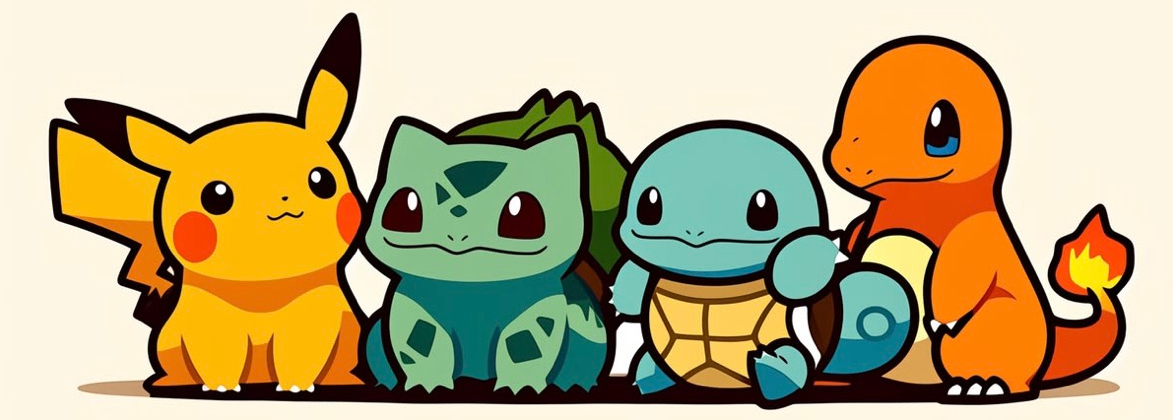
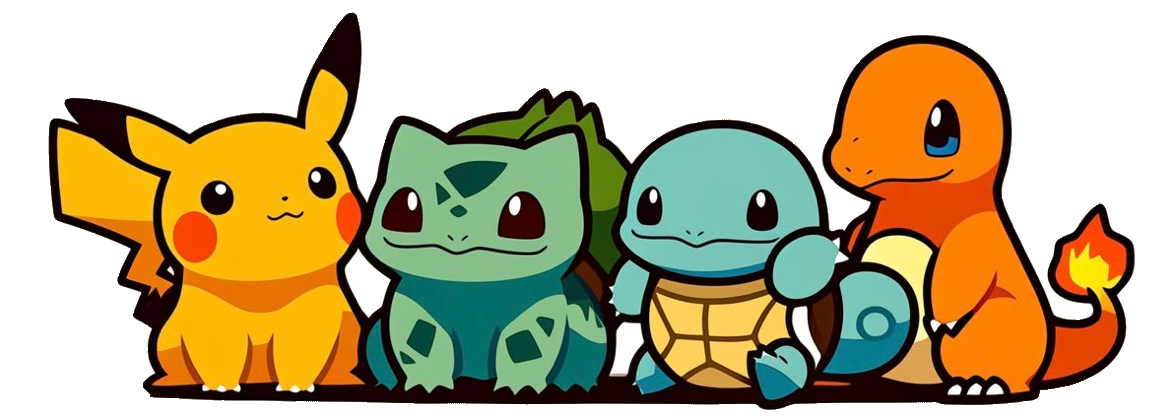
The envelope says one thing: who it is for
A chat app already prints the title and the date as text under the picture,
so the card repeating them said everything twice. All three variants now
carry the addressee and nothing else, which lets the name be far bigger and
survive being shown small in a busy thread.

The artwork is cut out of its paper background as well, so the characters
stand on the envelope rather than in a pale box. That let the opening
variant lose the panel it needed around them, and the drawing now rides out
on the card instead, which reads as the invitation rather than a sticker.

Claude-Session: https://claude.ai/code/session_01W5yJ9gMREcHtsepW6vWNrt

diff --git a/components/share/envelope-card.tsx b/components/share/envelope-card.tsx
@@ -18,8 +18,8 @@ export type CardInput = {
   palette: Palette;
   /** Who the invite is for. Absent on the group link, which is addressed to nobody in particular. */
   addressee?: string | null;
+  /** Shown only when there is no addressee, on the group link. */
   title: string;
-  when: string;
   /** Absolute URL. Satori fetches it, so a relative path will not do. */
   artwork?: string | null;
   /** Two digits at most, for the stamp. */
@@ -65,8 +65,9 @@ function stamp(p: Palette, age: string | null | undefined, x: number, y: number)
 }
 
 // A. Posted. A cream envelope, hand addressed, stamped and postmarked, with the host's artwork
-// sitting in the bottom corner. Cream on cream, so the drawing needs no box around it.
-function posted({ palette: p, addressee, title, when, artwork, age }: CardInput) {
+// standing in the bottom corner. The name is the only thing written on it: a chat app already
+// prints the title and the date as text under the picture, so repeating them here says it twice.
+function posted({ palette: p, addressee, title, artwork, age }: CardInput) {
   const EW = 920, EH = 505;
   return ground(p,
     <div style={{ position: "relative", width: EW, height: EH, display: "flex", transform: "rotate(-1.2deg)" }}>
@@ -79,16 +80,14 @@ function posted({ palette: p, addressee, title, when, artwork, age }: CardInput)
         </g>
       </svg>
       {stamp(p, age, EW - 150, 34)}
-      <div style={{ position: "absolute", left: 76, top: 128, display: "flex", flexDirection: "column", width: 540 }}>
-        <div style={{ display: "flex", fontFamily: HAND, fontSize: 30, letterSpacing: 6, color: p.red }}>{addressee ? "TO" : "YOU'RE INVITED"}</div>
-        <div style={{ display: "flex", fontFamily: HAND, fontSize: 86, color: p.navy, lineHeight: 1.02, marginTop: 2 }}>{addressee ?? title}</div>
-        {addressee ? <div style={{ display: "flex", fontFamily: DISPLAY, fontSize: 40, color: p.navy, marginTop: 24 }}>{title}</div> : null}
-        <div style={{ display: "flex", fontSize: 25, fontWeight: 700, color: p.navy, opacity: 0.72, marginTop: 10 }}>{when}</div>
+      <div style={{ position: "absolute", left: 80, top: 176, display: "flex", flexDirection: "column", width: 580 }}>
+        <div style={{ display: "flex", fontFamily: HAND, fontSize: 36, letterSpacing: 8, color: p.red }}>{addressee ? "TO" : "YOU'RE INVITED"}</div>
+        <div style={{ display: "flex", fontFamily: HAND, fontSize: 118, color: p.navy, lineHeight: 1.02, marginTop: 4 }}>{addressee ?? title}</div>
       </div>
       {artwork ? (
-        <div style={{ position: "absolute", right: 30, bottom: 18, display: "flex" }}>
+        <div style={{ position: "absolute", right: 44, bottom: 26, display: "flex" }}>
           {/* eslint-disable-next-line @next/next/no-img-element */}
-          <img src={artwork} alt="" height={132} />
+          <img src={artwork} alt="" height={168} />
         </div>
       ) : null}
     </div>,
@@ -97,8 +96,8 @@ function posted({ palette: p, addressee, title, when, artwork, age }: CardInput)
 
 // B. Opening. The flap is up and the invitation is halfway out, which is the clearest possible
 // way of saying there is something in here to open.
-function opening({ palette: p, addressee, title, when, artwork, age }: CardInput) {
-  const CW = 640, CH = 232, EW = 800, EH = 292;
+function opening({ palette: p, addressee, title, artwork }: CardInput) {
+  const CW = 660, CH = 252, EW = 800, EH = 292;
   const ELEFT = (980 - EW) / 2, ETOP = 252, FLAP_TOP = 178;
   const liner = shade(p.sky, 0.58);
   return ground(p,
@@ -110,44 +109,38 @@ function opening({ palette: p, addressee, title, when, artwork, age }: CardInput
       {/* the invitation, halfway out */}
       <div
         style={{
-          position: "absolute", left: (980 - CW) / 2, top: 16, width: CW, height: CH,
+          position: "absolute", left: (980 - CW) / 2, top: 8, width: CW, height: CH,
           display: "flex", flexDirection: "column", alignItems: "center",
-          background: PAPER, border: `6px solid ${p.navy}`, borderRadius: 12, paddingTop: 22,
+          background: PAPER, border: `6px solid ${p.navy}`, borderRadius: 12, paddingTop: 18,
           transform: "rotate(-1.2deg)",
         }}
       >
-        <div style={{ display: "flex", fontFamily: HAND, fontSize: 23, letterSpacing: 7, color: p.red }}>{age ? "TRAINER WANTED" : "YOU'RE INVITED"}</div>
-        <div style={{ display: "flex", fontFamily: DISPLAY, fontSize: 54, color: p.navy, marginTop: 6, lineHeight: 1.04 }}>{title}</div>
-        <div style={{ display: "flex", fontSize: 22, fontWeight: 700, color: p.navy, opacity: 0.7, marginTop: 10 }}>{when}</div>
+        <div style={{ display: "flex", fontFamily: HAND, fontSize: 26, letterSpacing: 8, color: p.red }}>YOU&apos;RE INVITED</div>
+        {artwork ? (
+          <div style={{ display: "flex", marginTop: 8 }}>
+            {/* eslint-disable-next-line @next/next/no-img-element */}
+            <img src={artwork} alt="" height={168} />
+          </div>
+        ) : (
+          <div style={{ display: "flex", fontFamily: DISPLAY, fontSize: 62, color: p.navy, marginTop: 20, lineHeight: 1.04 }}>{title}</div>
+        )}
       </div>
       {/* the envelope front, over the card */}
       <svg width={EW} height={EH} viewBox={`0 0 ${EW} ${EH}`} style={{ position: "absolute", left: ELEFT, top: ETOP }}>
         <rect x="5" y="5" width={EW - 10} height={EH - 10} rx="14" fill={p.red} stroke={p.navy} strokeWidth="7" />
         <path d={`M8 8 L${EW / 2} 150 L${EW - 8} 8`} fill="none" stroke={shade(p.red, -0.22)} strokeWidth="6" strokeLinejoin="round" />
       </svg>
-      <div style={{ position: "absolute", left: ELEFT + 54, top: ETOP + 168, display: "flex", flexDirection: "column" }}>
-        <div style={{ display: "flex", fontFamily: HAND, fontSize: 21, letterSpacing: 6, color: p.cream }}>{addressee ? "TO" : ""}</div>
-        <div style={{ display: "flex", fontFamily: HAND, fontSize: 50, color: "#FFFFFF", lineHeight: 1 }}>{addressee ?? ""}</div>
+      <div style={{ position: "absolute", left: ELEFT + 56, top: ETOP + 148, width: EW - 112, display: "flex", flexDirection: "column" }}>
+        <div style={{ display: "flex", fontFamily: HAND, fontSize: 24, letterSpacing: 7, color: p.cream }}>{addressee ? "TO" : ""}</div>
+        <div style={{ display: "flex", fontFamily: HAND, fontSize: 72, color: "#FFFFFF", lineHeight: 1.02 }}>{addressee ?? ""}</div>
       </div>
-      {artwork ? (
-        <div
-          style={{
-            position: "absolute", right: 26, top: ETOP + 138, display: "flex",
-            background: PAPER, border: `5px solid ${p.navy}`, borderRadius: 10,
-            padding: "6px 8px", transform: "rotate(-2.5deg)",
-          }}
-        >
-          {/* eslint-disable-next-line @next/next/no-img-element */}
-          <img src={artwork} alt="" height={98} />
-        </div>
-      ) : null}
     </div>,
   );
 }
 
 // C. Sealed. No artwork at all, which is what every event gets before a host uploads anything,
 // and what a memorial or a quiet dinner should get regardless.
-function sealed({ palette: p, addressee, title, when }: CardInput) {
+function sealed({ palette: p, addressee, title }: CardInput) {
   const EW = 900, EH = 512, FLAP = 226;
   return ground(p,
     <div style={{ position: "relative", width: EW, height: EH, display: "flex", transform: "rotate(1deg)" }}>
@@ -157,11 +150,9 @@ function sealed({ palette: p, addressee, title, when }: CardInput) {
         <circle cx={EW / 2} cy={FLAP} r="36" fill={p.red} stroke={p.navy} strokeWidth="6" />
         <circle cx={EW / 2} cy={FLAP} r="23" fill="none" stroke={shade(p.red, 0.4)} strokeWidth="3" />
       </svg>
-      <div style={{ position: "absolute", left: 0, top: 288, width: EW, display: "flex", flexDirection: "column", alignItems: "center" }}>
-        {addressee ? <div style={{ display: "flex", fontFamily: HAND, fontSize: 26, letterSpacing: 7, color: p.red }}>TO</div> : null}
-        <div style={{ display: "flex", fontFamily: HAND, fontSize: addressee ? 68 : 52, color: p.navy, lineHeight: 1.02 }}>{addressee ?? title}</div>
-        {addressee ? <div style={{ display: "flex", fontFamily: DISPLAY, fontSize: 34, color: p.navy, marginTop: 10 }}>{title}</div> : null}
-        <div style={{ display: "flex", fontSize: 23, fontWeight: 700, color: p.navy, opacity: 0.7, marginTop: 6 }}>{when}</div>
+      <div style={{ position: "absolute", left: 0, top: 302, width: EW, display: "flex", flexDirection: "column", alignItems: "center" }}>
+        {addressee ? <div style={{ display: "flex", fontFamily: HAND, fontSize: 30, letterSpacing: 8, color: p.red }}>TO</div> : null}
+        <div style={{ display: "flex", fontFamily: HAND, fontSize: addressee ? 86 : 60, color: p.navy, lineHeight: 1.02, marginTop: 4 }}>{addressee ?? title}</div>
       </div>
     </div>,
   );

diff --git a/app/s/i/[token]/card.png/route.tsx b/app/s/i/[token]/card.png/route.tsx
@@ -3,7 +3,6 @@ import { getInviteCard } from "@/lib/guest/invite";
 import { paletteFor } from "@/components/art/palette";
 import { CARD_SIZE, envelopeCard, type CardVariant } from "@/components/share/envelope-card";
 import { cardFonts } from "@/lib/fonts";
-import { shortWhen } from "@/lib/format";
 import { getSiteUrl } from "@/lib/site-url";
 
 // The picture under a personal link: the same envelope, addressed to the guest it belongs to.
@@ -21,7 +20,6 @@ export async function GET(request: Request, { params }: { params: Promise<{ toke
       palette: paletteFor(card.palette, card.theme_id),
       addressee: card.addressee,
       title: card.share_title ?? card.title,
-      when: shortWhen(card.date, card.start_time),
       artwork: card.invite_image_path ? `${site}${card.invite_image_path}` : null,
       age: card.title.match(/turning (\d+)/i)?.[1] ?? null,
       variant,

diff --git a/app/s/[slug]/card.png/route.tsx b/app/s/[slug]/card.png/route.tsx
@@ -3,7 +3,6 @@ import { getEventBySlug } from "@/lib/guest/invite";
 import { paletteFor } from "@/components/art/palette";
 import { CARD_SIZE, envelopeCard, type CardVariant } from "@/components/share/envelope-card";
 import { cardFonts } from "@/lib/fonts";
-import { shortWhen } from "@/lib/format";
 import { getSiteUrl } from "@/lib/site-url";
 
 // The picture a chat app shows under the group link: a sealed envelope, addressed to nobody
@@ -19,7 +18,6 @@ export async function GET(request: Request, { params }: { params: Promise<{ slug
     envelopeCard({
       palette: paletteFor(e.palette, e.theme_id),
       title: e.share_title ?? e.title,
-      when: shortWhen(e.date, e.start_time),
       artwork: e.invite_image_path ? `${site}${e.invite_image_path}` : null,
       age: e.title.match(/turning (\d+)/i)?.[1] ?? null,
       variant,

diff --git a/lib/format.ts b/lib/format.ts
@@ -116,10 +116,3 @@ export function hostName(hostLine: string | null | undefined, fallback = "the ho
   const trimmed = (hostLine ?? "").trim().replace(/^(with (love|thanks) )?from\s+/i, "").trim();
   return trimmed || fallback;
 }
-
-// Date and start time in the fewest words, for a link preview where a long line would spill.
-export function shortWhen(date: string | null | undefined, start: string | null | undefined): string {
-  const day = formatInviteDate(date);
-  if (!day) return "";
-  return start ? `${day}, from ${formatTime(start)}` : day;
-}
